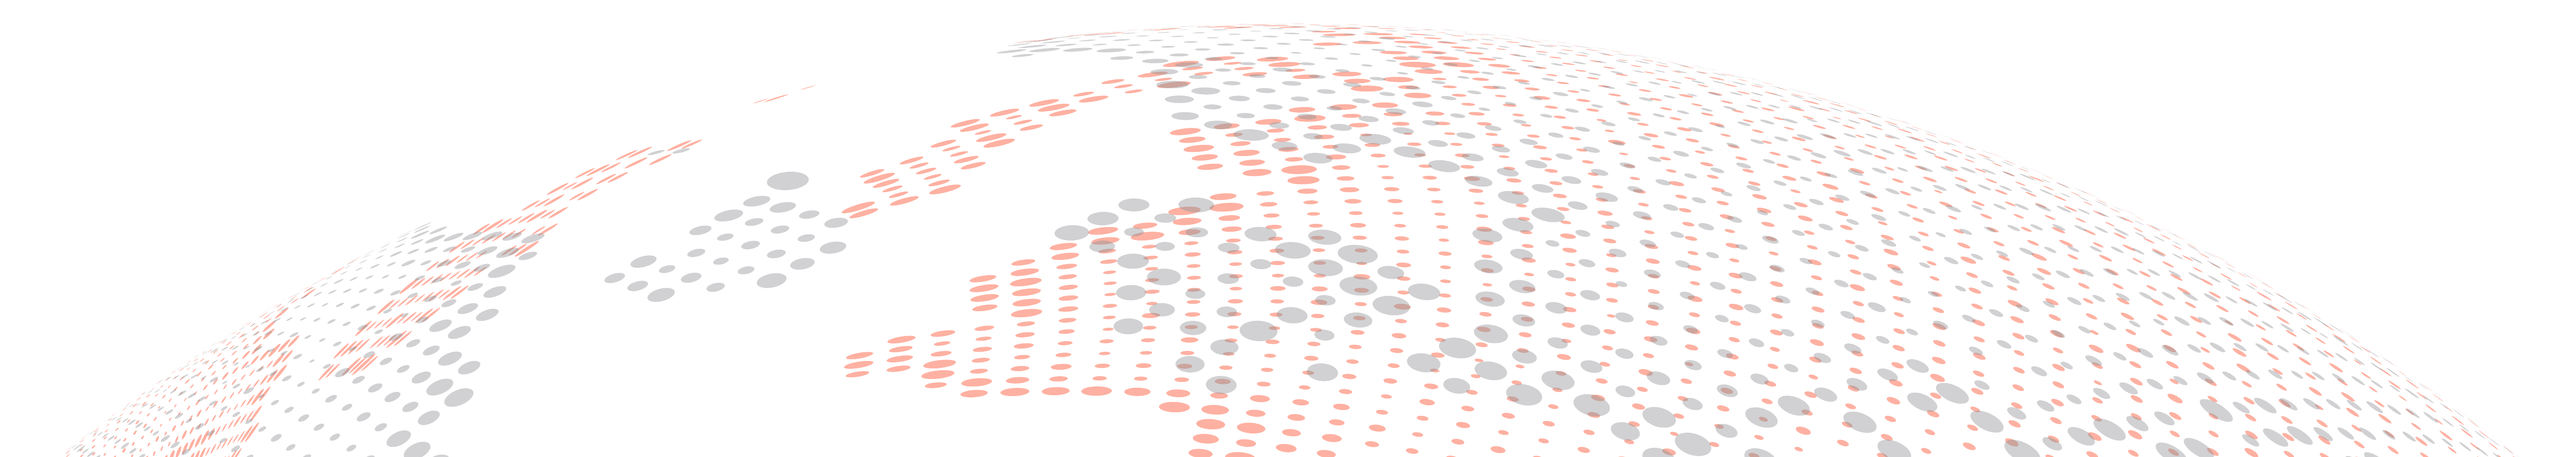
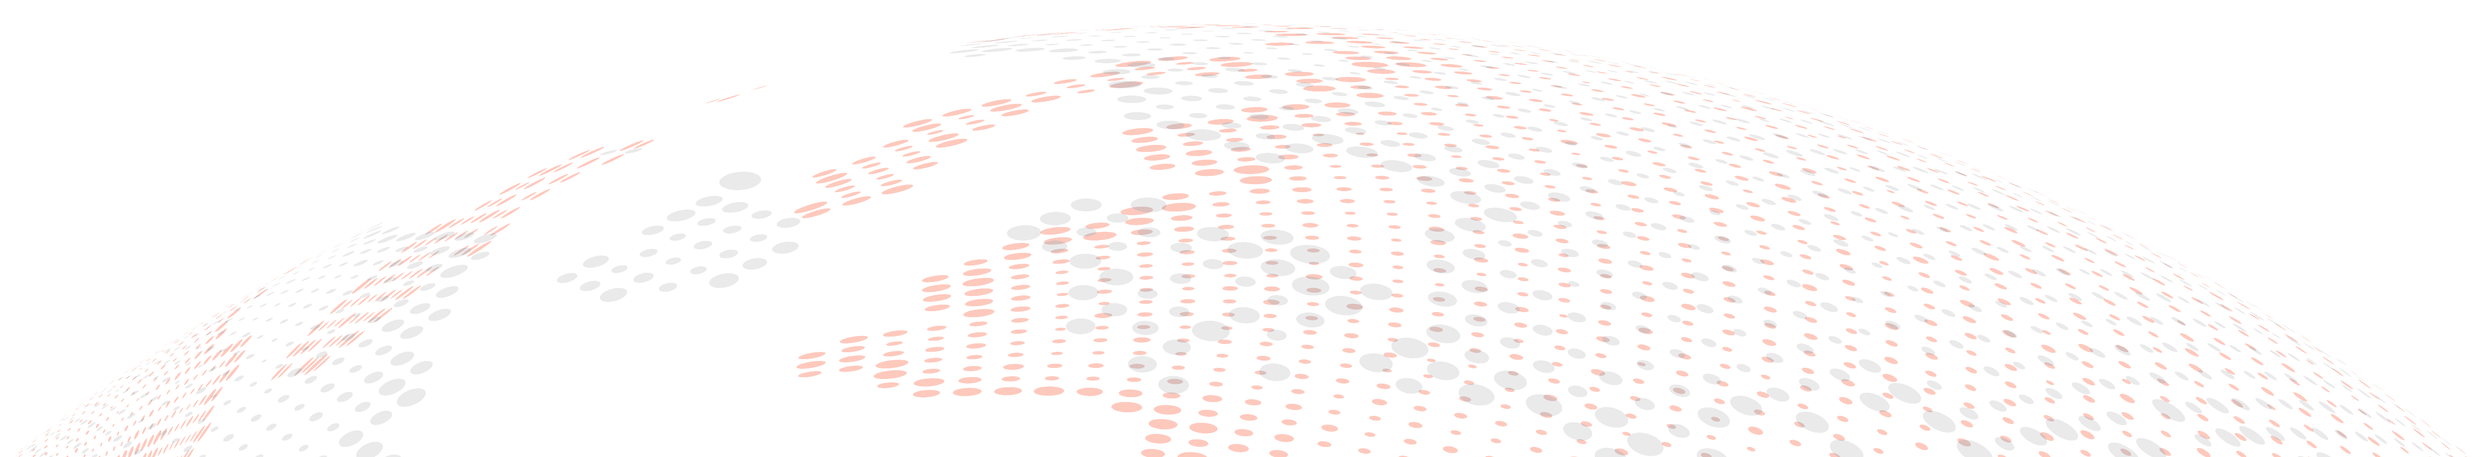
optimized globe image

Changed region(s): [[0.2176, 0.0606, 0.9635, 1.0], [0.0311, 0.3333, 0.2487, 1.0], [0.2487, 0.303, 0.2797, 0.3333]]

diff --git a/components/Home/HomeHero.jsx b/components/Home/HomeHero.jsx
@@ -52,7 +52,7 @@ const HomeHero = () => {
         width={1710}
         height={439}
         alt="globe image"
-        className="w-[130%] sm:w-[100%] lg:w-[85%] h-[28%] xl:h-[40%] lg:h-[30%] 2xl:h-[45%] absolute bottom-[-4%] 2xl:-bottom-11 shadow-bottom lg:hidden"
+        className="globe-img w-[90%] absolute bottom-12"
       />
 
       <Image
